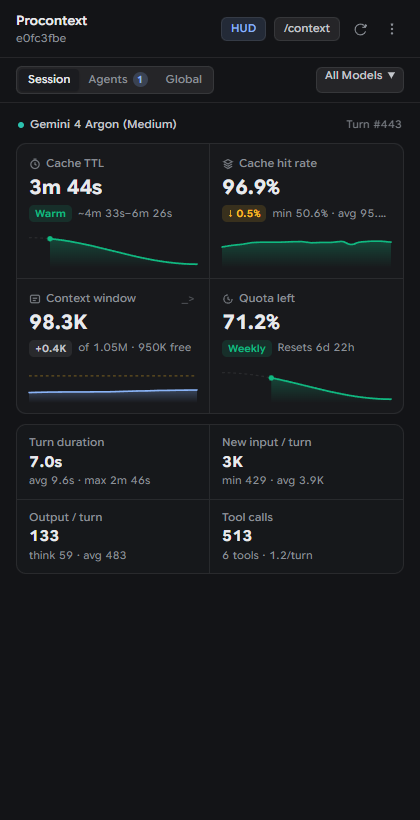
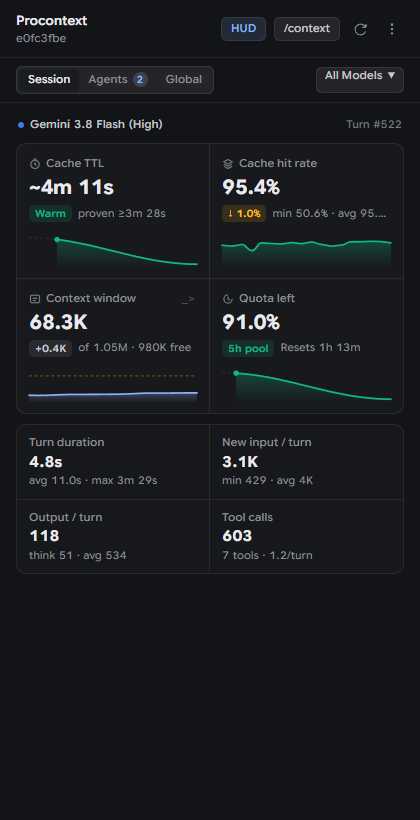
Update README and UI screenshots with new Quota rows, single-pill TTL, and compacted data

diff --git a/README.md b/README.md
@@ -61,17 +61,18 @@ Streamlined vertical dashboard for quick scanning:
 
 ### 3. Full Mode (`Full`)
 Complete analytical breakdown for deep inspection:
-- **Window Utilization & Context Compaction**: Capacity bar with subtle `_>` compact threshold tick, active model & multi-model badges, and an expandable **Context Compacted** `.cat-list` drill-down showing every compaction checkpoint (`Turn #N`, `before → after`, tokens saved, and `%` reduction).
+- **Window Utilization & Context Compaction**: Capacity bar with subtle `_>` compact threshold trigger, active model & multi-model badges, and an expandable **Context Compacted** row opening an in-SPA detail breakdown of every compaction checkpoint (`Turn #N`, `before → after`, tokens saved, and `%` reduction).
 - **Account & Quotas (5-Hour & Weekly Pools)**:
-  - Groups pools by **5-Hour Window** (`Claude / GPT-OSS`, `Gemini · Hydrogen / Neon`) and **Weekly Window** (`Gemini · Argon`) with brand-colored family pills.
-  - Expand any pool to inspect **Per 1% of Quota** empirical token burn (`Cache Read / 1%`, `New Input / 1%`, `Thinking / 1%`, `Response / 1%`, `Total / 1%`), **Pool Runway** (`~N turns`, estimated remaining token budget, estimated 100% pool budget), and **Model Separation** (color-coded per-model share with expandable token breakdown and one-click `Focus` filter).
+  - Streamlined `.cat-list` rows (`Claude / GPT`, `Gemini`, `Argon`) matching the clean layout of Session Totals, showing empirical token burn rates, reset countdowns, and used percentages without noisy borders or pills.
+  - Click any pool to navigate to an in-SPA detail page inspecting **Per 1% of Quota** empirical token burn (`Cache Read / 1%`, `New Input / 1%`, `Thinking / 1%`, `Response / 1%`, `Total / 1%`), **Pool Runway** (`~N turns`, estimated remaining token budget, estimated 100% pool budget), and **Model Separation** (color-coded per-model share with expandable token breakdown and one-click `Focus` filter).
 - **Active Turn & Live Cache Lifespan Strip**:
   - Prompt token breakdown (`Cache Read` vs `New Input`) with live `+N` delta pills on updates.
-  - Live 1-second ticker for `Last Chat`, `Cache Model`, and learned `Cache TTL` countdown.
+  - Live 1-second ticker for `Last Chat`, `Cache Model`, and learned `Cache TTL` with clean foreground bounds and a single status countdown pill.
 - **Generation Output & 3-Level Tool Calls Tree**:
   - Splits output into `Thinking` and `Response & Tools` against the model's output ceiling.
-  - Expandable 3-level **Tool Calls** tree: `Total Calls → Tool Name (count & share %) → Target File / Command`.
+  - Clickable **Tool Calls** row opening an in-SPA drill-down page: `Total Calls → Tool Name (count & share %) → Target File / Command`.
 - **Paginated Telemetry Ledger (`By Prompt` | `By Step`)**:
+  - All telemetry rows default to compacted format on load for instant scanning.
   - **By Prompt**: Groups internal agent tool loops by user prompt boundary with model routing chains, estimated 5h/weekly quota cost, and cache hit status chips.
   - **By Step**: Granular per-LLM-call ledger with visual left-hand prompt-grouping brackets across steps and pages (`15` items/page).
 
@@ -84,7 +85,7 @@ Complete analytical breakdown for deep inspection:
 - **Global Tab**:
   - **Separated Per-Account Storage**: Automatically isolates global token ledgers, learned cache TTL bounds, quota correlation samples, and snapshots by logged-in account (`email · plan`).
   - **All-Time & Since-Reset Totals**: Aggregates all local Antigravity conversations in the background without blocking the UI.
-  - **Manual & Auto 100% Quota Snapshots**: Saves named snapshots manually or automatically when a quota cycle hits 100%, plus full JSON export/import.
+  - **Saved & Compacted Snapshots**: Save named snapshot checkpoints on demand, inspect individual snapshots on dedicated in-SPA detail views, or export/import full JSON state across devices.
 - **Per-Model Filter Dropdown**: Filter Session, Coding HUD, Quotas, and Global views to a single model or `All Models`.
 
 ---
